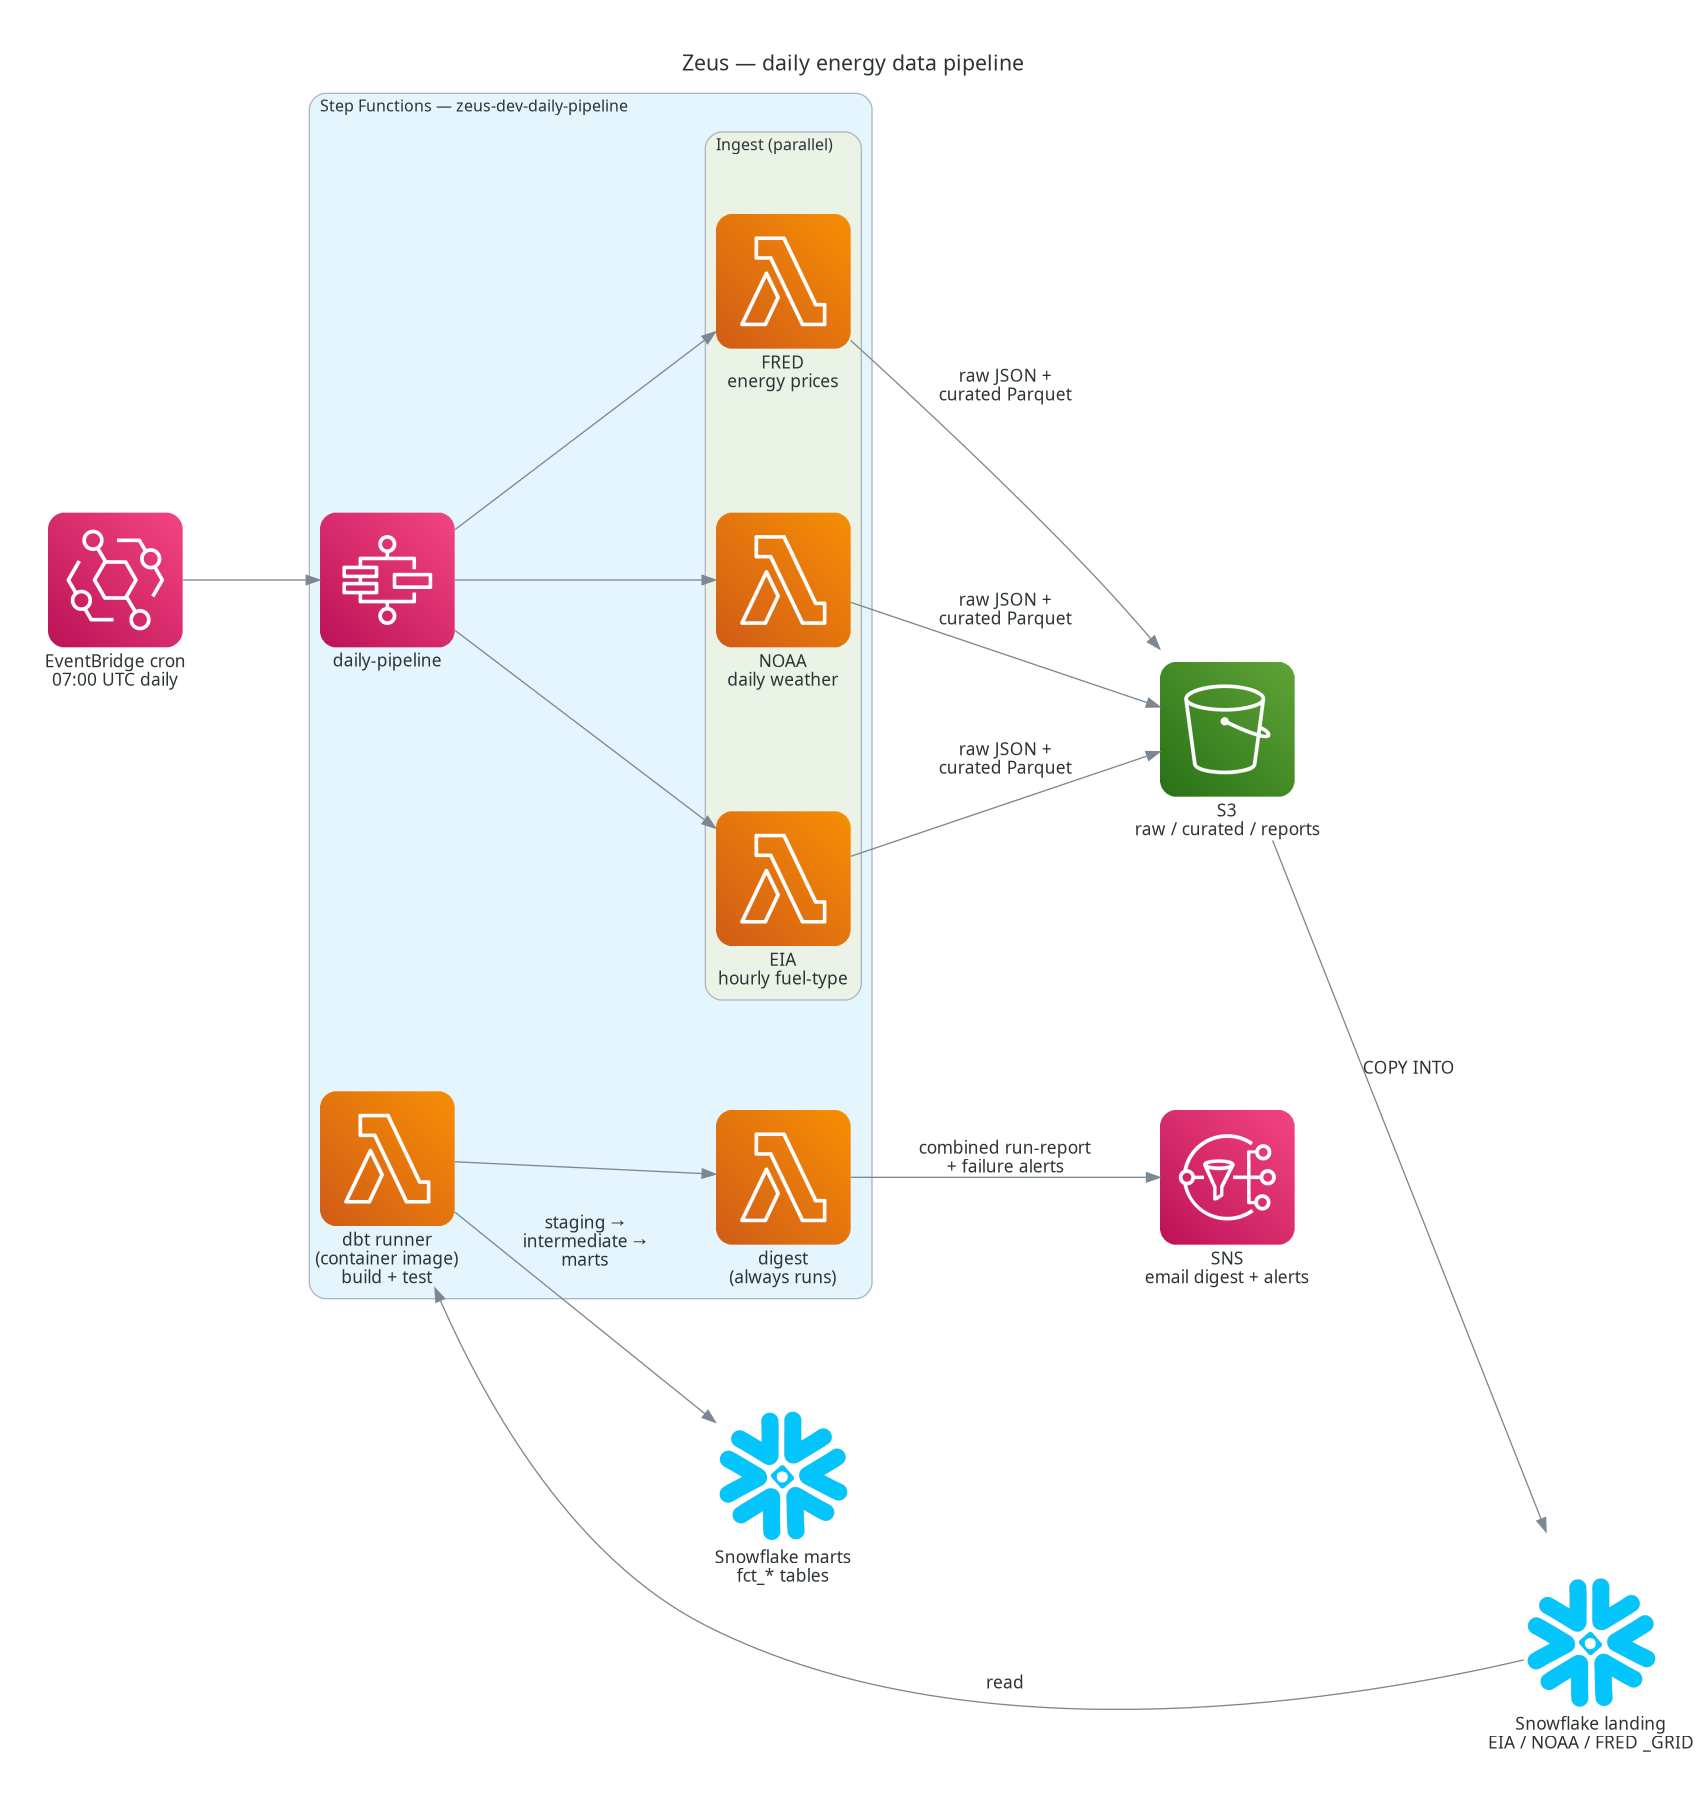
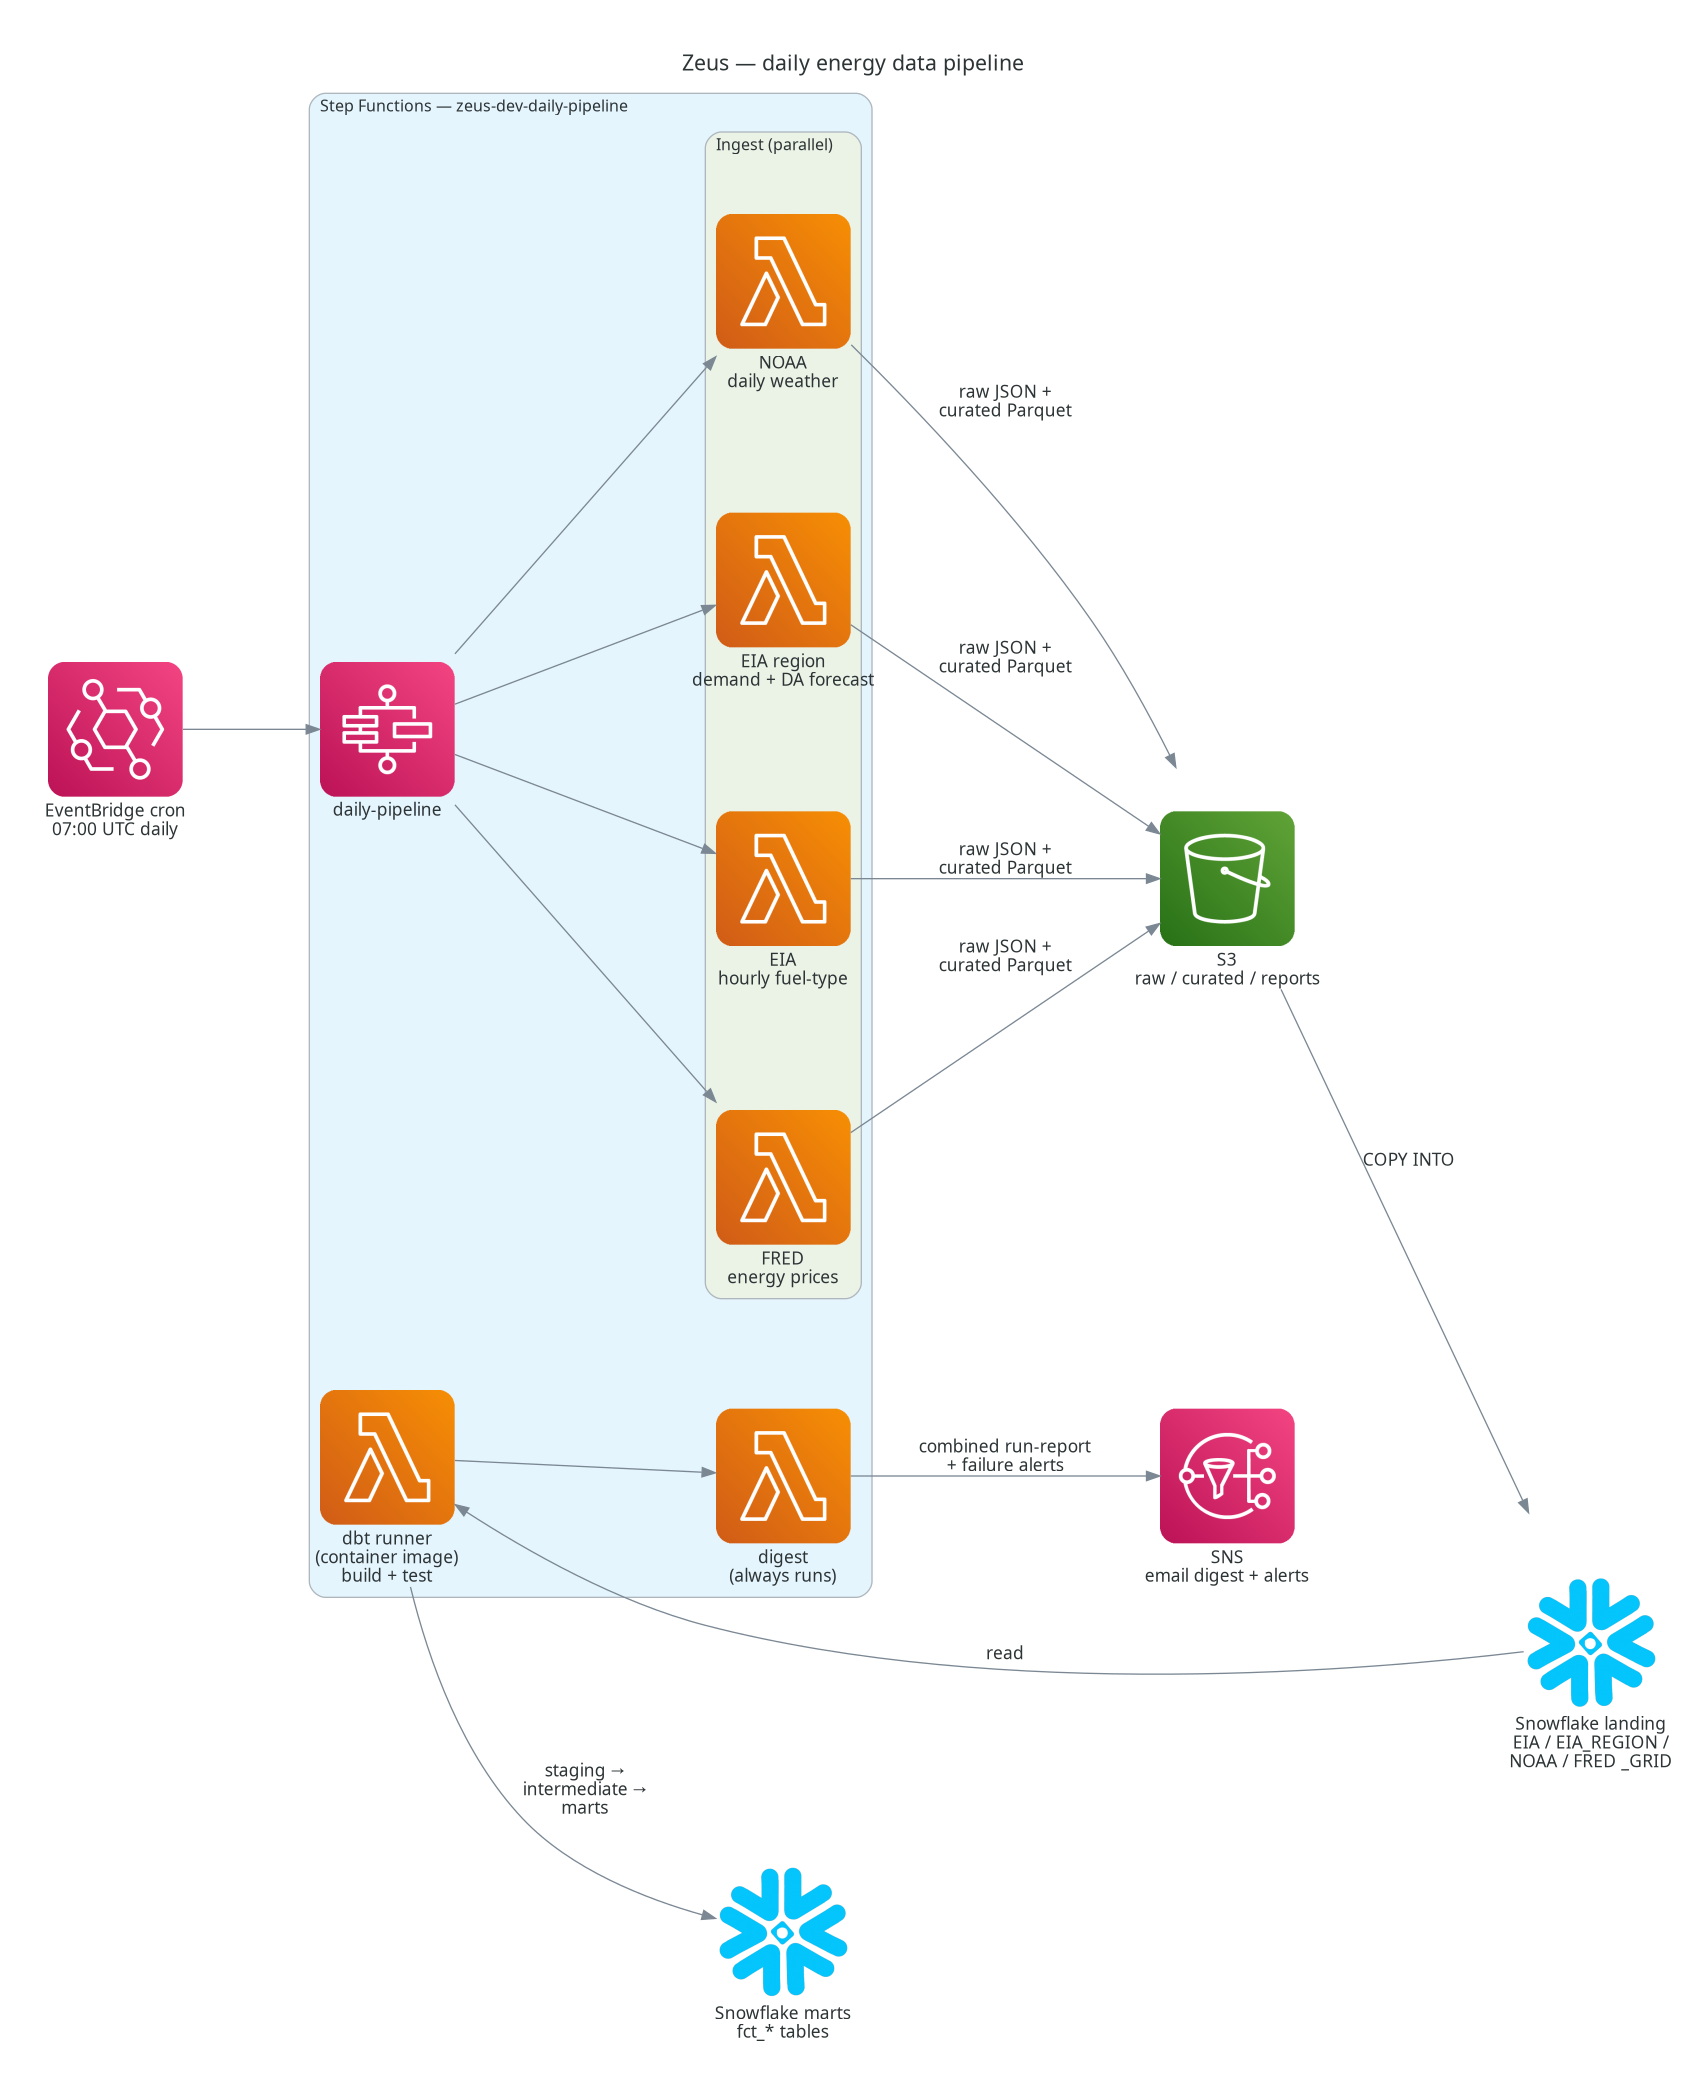
docs: add eia_region to the architecture diagram and README data model
Regenerate docs/architecture.png with the fourth ingest Lambda and the
EIA_REGION landing table; add EIA_REGION_GRID to the README ERD as a
landing-only entity (staging ships with this branch; int/marts come
next) and note why it appears unconnected.

diff --git a/docs/architecture.py b/docs/architecture.py
@@ -42,6 +42,7 @@ with Diagram(
         with Cluster("Ingest (parallel)"):
             ingest = [
                 Lambda("EIA\nhourly fuel-type"),
+                Lambda("EIA region\ndemand + DA forecast"),
                 Lambda("NOAA\ndaily weather"),
                 Lambda("FRED\nenergy prices"),
             ]
@@ -50,7 +51,7 @@ with Diagram(
         digest = Lambda("digest\n(always runs)")
 
     s3 = S3("S3\nraw / curated / reports")
-    landing = Snowflake("Snowflake landing\nEIA / NOAA / FRED _GRID")
+    landing = Snowflake("Snowflake landing\nEIA / EIA_REGION /\nNOAA / FRED _GRID")
     marts = Snowflake("Snowflake marts\nfct_* tables")
     sns = SimpleNotificationServiceSns("SNS\nemail digest + alerts")
 

diff --git a/docs/deploy.py b/docs/deploy.py
@@ -54,7 +54,7 @@ with Diagram(
         ecr >> Edge(label="update-function-code") >> dbt_lambda
         dbt_lambda >> Edge(label="smoke-invoke\n(deploy gate:\nfails on bad test)", style="dashed") >> gha
 
-    # ---- Zip path: ingest (EIA/NOAA/FRED) + digest Lambdas -----------------
+    # ---- Zip path: ingest (EIA/EIA_REGION/NOAA/FRED) + digest Lambdas ------
     with Cluster("Zip Lambdas — local build (Terraform apply)"):
         dev = User("developer\nuv pip install\n--target → zip")
         artifacts = S3("S3\nbuild artifacts\n(zip ~49 MiB)")

diff --git a/README.md b/README.md
@@ -57,7 +57,7 @@ How code ships (distinct from the runtime view above). dbt/transform PRs are fir
 
 ### Data model
 
-Lineage + join keys for the dbt layer, shown `landing → intermediate → marts` (the `stg_*` views are pure 1:1 dedup+rename and omitted here — see `dbt docs serve` for the full model-by-model lineage with column docs). The only cross-source join in the pipeline is EIA generation ↔ NOAA weather inside `fct_energy_daily`, on `(ba, date)` (M-4) — EIA and NOAA are deliberately keyed on the same balancing-authority code so this join works. `fct_fuel_prices_daily` (FRED) is **standalone** — national (no `ba`), not joined to the other marts; a consumer *can* join it to `fct_energy_daily` on `date`, but the pipeline doesn't (M-12). Grains are the `PK` columns.
+Lineage + join keys for the dbt layer, shown `landing → intermediate → marts` (the `stg_*` views are pure 1:1 dedup+rename and omitted here — see `dbt docs serve` for the full model-by-model lineage with column docs). The only cross-source join in the pipeline is EIA generation ↔ NOAA weather inside `fct_energy_daily`, on `(ba, date)` (M-4) — EIA and NOAA are deliberately keyed on the same balancing-authority code so this join works. `fct_fuel_prices_daily` (FRED) is **standalone** — national (no `ba`), not joined to the other marts; a consumer *can* join it to `fct_energy_daily` on `date`, but the pipeline doesn't (M-12). Grains are the `PK` columns. `EIA_REGION_GRID` (hourly demand / day-ahead demand forecast / net generation / total interchange) is landing + staging only for now — its intermediate/mart layers (forecast accuracy, energy balance) come next, so it appears unconnected here.
 
 ```mermaid
 erDiagram
@@ -66,6 +66,13 @@ erDiagram
         string respondent "balancing authority"
         string fueltype
         float value "MWh"
+        date ingestion_date
+    }
+    EIA_REGION_GRID {
+        timestamp period "hour, UTC"
+        string respondent "balancing authority"
+        string type "D / DF / NG / TI"
+        float value "MWh (TI signed)"
         date ingestion_date
     }
     NOAA_GRID {
